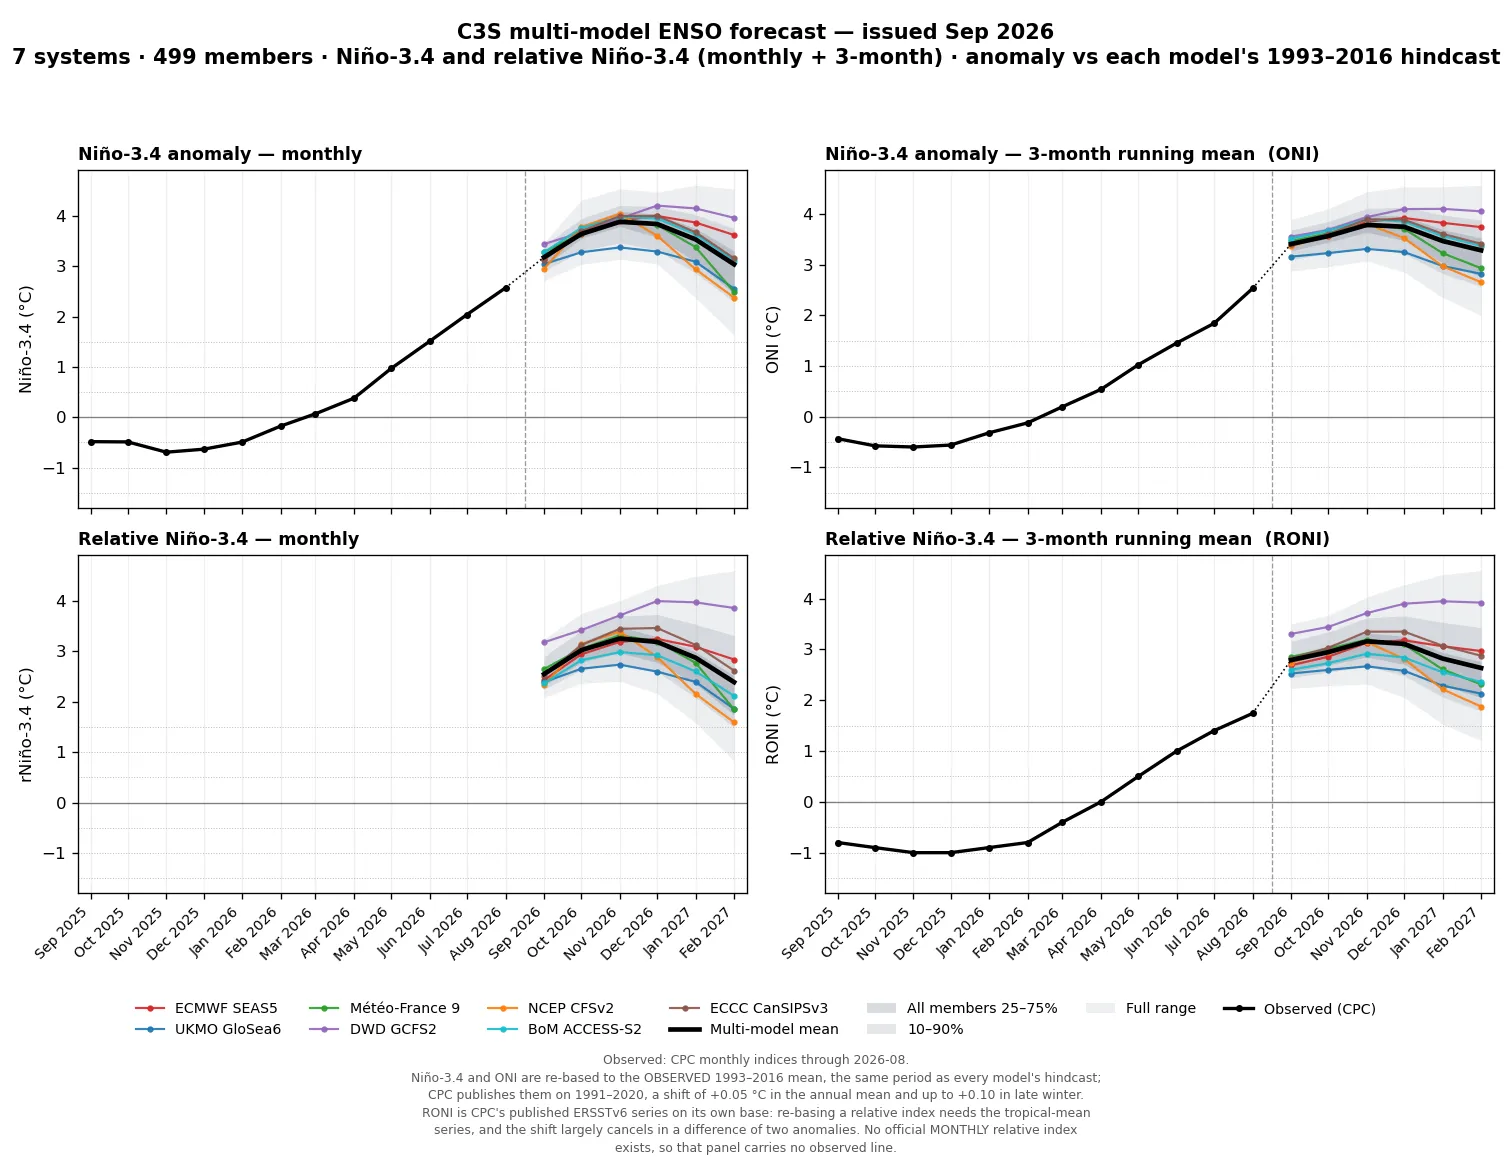
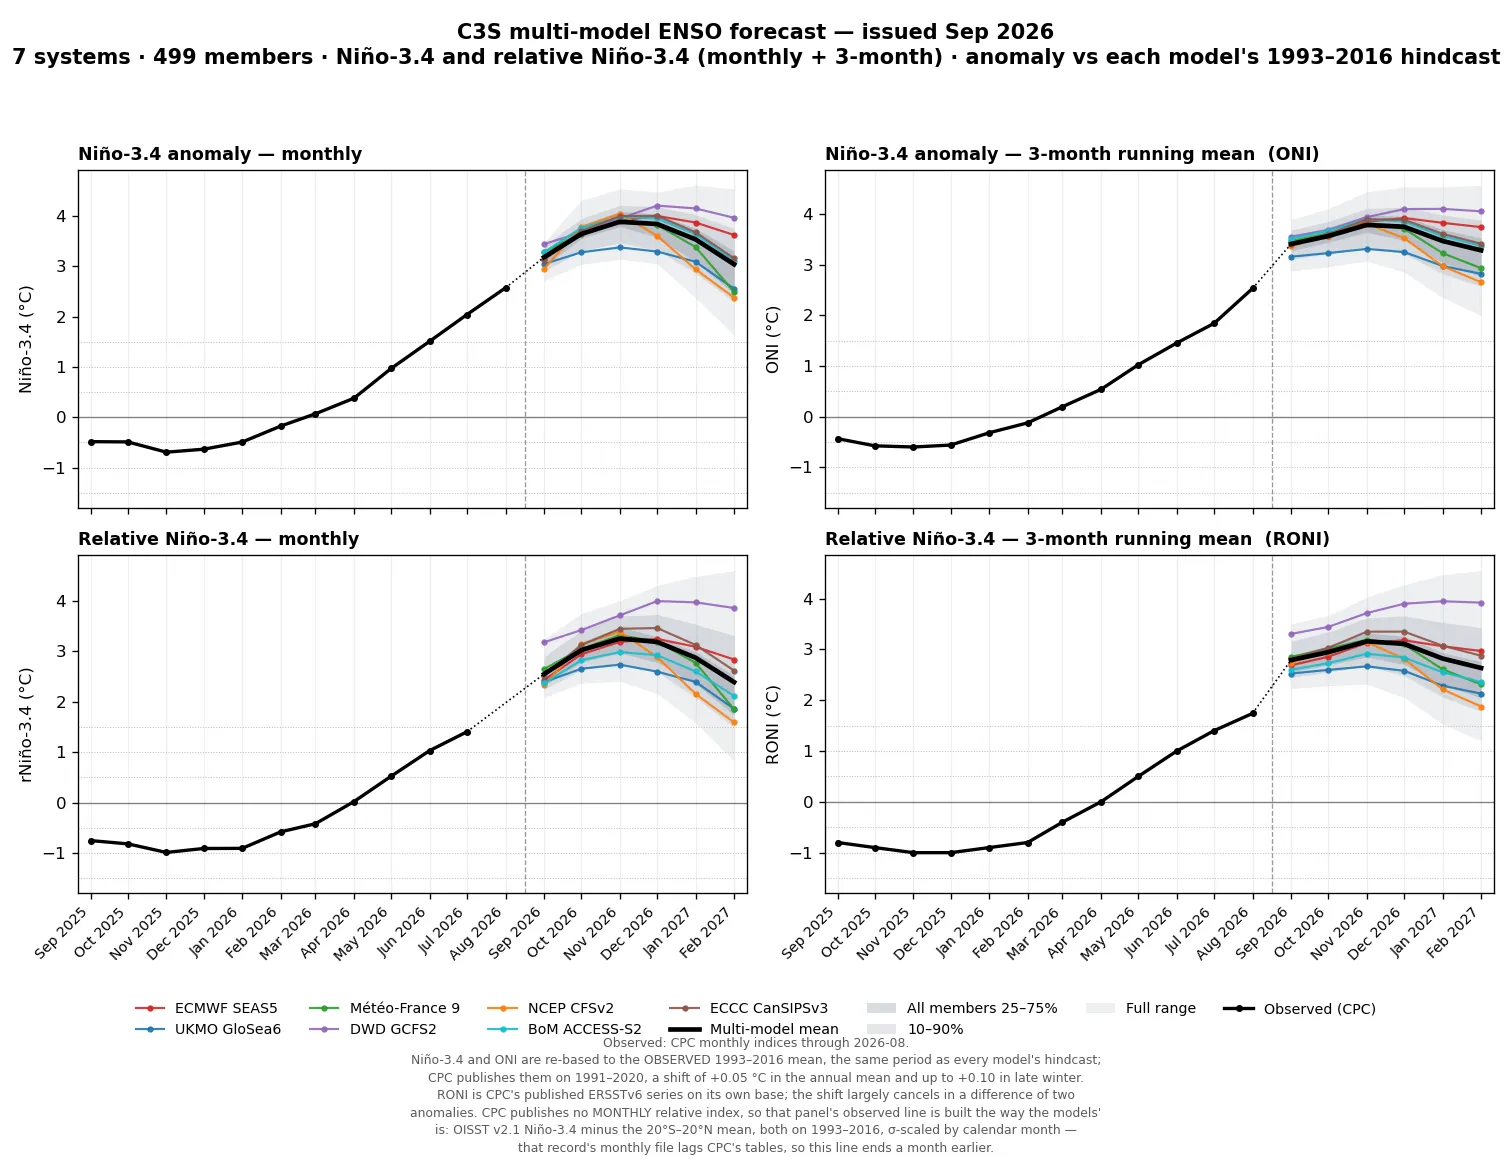
enso: observed monthly relative Niño-3.4; stop the band polygons drawing dots
CPC publishes RONI only as a 3-month mean, so the monthly relative panel had no
observed line. The construction is not a mystery: it is the Niño-3.4 anomaly
minus the 20S-20N tropical-mean anomaly, sigma-scaled by calendar month --
exactly what model_members() does to every member. Built here on OISST v2.1
monthly, the record that produced the sigma table itself, with both anomalies on
the OBSERVED 1993-2016 mean so the line sits on the hindcast base like the rest
of the figure. Cached, because the source file is 2.2 GB.

That file lags CPC's tables by a month, so this line ends in July while the
other three reach August; the dotted connector to the forecast is drawn from
each panel's own last real value rather than assuming they end together.

Separately, on the seasonal page: a Plotly scatter with no explicit mode and few
points defaults to lines+markers, so the shaded bands -- which are polygons --
drew a dot at every vertex, one per month per percentile edge, in the band's own
colour. Nothing was encoded; they were noise (user: "I have no idea what the
dots indicate"). Both population-weighted cards now set mode explicitly.

Claude-Session: https://claude.ai/code/session_01DLR6gqBe7B4VJNchTVrgT3

diff --git a/seasonal.html b/seasonal.html
@@ -1383,7 +1383,8 @@
     var sel = { r: regions[0], m: "mmm", k: "anom" };
     function band(x, lo, hi, col, name) {
       return { x: x.concat(x.slice().reverse()), y: hi.concat(lo.slice().reverse()), fill: "toself",
-               fillcolor: col, line: { width: 0 }, hoverinfo: "skip", showlegend: false, name: name, type: "scatter" };
+               fillcolor: col, line: { width: 0 }, mode: "lines", hoverinfo: "skip", showlegend: false,
+               name: name, type: "scatter" };
     }
     function draw() {
       var R = J.regions[sel.r], V = R.values[sel.m] || R.values.mmm, unit = R.unit;
@@ -1467,7 +1468,8 @@
     var sel = { r: regions[0], m: "mmm", k: "anom" };
     function band(x, lo, hi, col) {
       return { x: x.concat(x.slice().reverse()), y: hi.concat(lo.slice().reverse()), fill: "toself",
-               fillcolor: col, line: { width: 0 }, hoverinfo: "skip", showlegend: false, type: "scatter" };
+               fillcolor: col, line: { width: 0 }, mode: "lines", hoverinfo: "skip", showlegend: false,
+               type: "scatter" };
     }
     function pills(id, items, cur, set) {
       var h = document.getElementById(id); h.innerHTML = "";

diff --git a/scripts/sst/c3s_nino34.py b/scripts/sst/c3s_nino34.py
@@ -349,6 +349,76 @@ OBS_HISTORY = ASSETS / "data" / "nino_history.json"      # written by the ENSO m
 OBS_MONTHS = 12
 
 
+OISST_MEAN = HERE / "data" / "sst.mon.mean.nc"      # the monthly OISST record (gitignored cache)
+REL_CACHE = HERE / "data" / "obs_relative_nino34.json"
+
+
+def observed_relative(months) -> "np.ndarray | None":
+    """Observed MONTHLY relative Niño-3.4, built the way the models' is.
+
+    CPC publishes RONI only as a 3-month mean, so the monthly panel had no observed line.
+    The construction is not a mystery, though: relative Niño-3.4 is the Niño-3.4 anomaly
+    minus the 20°S–20°N tropical-mean anomaly, scaled by the calendar month's σ — exactly
+    what model_members() does to every member. Done here on OISST v2.1 monthly, the record
+    that produced the σ table itself (build_roni_sigma.py), with both anomalies on the
+    OBSERVED 1993–2016 mean so the line sits on the same base as the hindcast anomalies
+    beside it.
+
+    Cached: the source file is 2.2 GB and this is a monthly product.
+    """
+    import numpy as _np
+    want = list(months)
+    if REL_CACHE.exists():
+        try:
+            c = json.loads(REL_CACHE.read_text())
+            if c.get("months") and c["months"][-1] >= want[-1]:
+                by = dict(zip(c["months"], c["values"]))
+                return _np.array([by.get(m, _np.nan) for m in want], dtype=float)
+        except Exception:                                             # noqa: BLE001
+            pass
+    if not OISST_MEAN.exists():
+        return None
+    try:
+        import xarray as xr
+        ds = xr.open_dataset(OISST_MEAN, chunks={"time": 120})
+        sst = ds["sst"]
+
+        def box(la0, la1, lo0, lo1):
+            sub = sst.sel(lat=slice(la0, la1), lon=slice(lo0, lo1))
+            w = _np.cos(_np.deg2rad(sub.lat))
+            return sub.weighted(w.fillna(0)).mean(("lat", "lon")).compute()
+
+        n34 = box(-5, 5, 190, 240)
+        trop = box(-20, 20, 0, 360)
+    except Exception as e:                                            # noqa: BLE001
+        print(f"  observed relative index unavailable ({str(e)[:70]})", flush=True)
+        return None
+    yr = n34.time.dt.year.values
+    mo_ = n34.time.dt.month.values
+
+    def anom(x):
+        v = _np.asarray(x.values, float)
+        out = _np.full_like(v, _np.nan)
+        for m in range(1, 13):
+            sel = mo_ == m
+            base = sel & (yr >= 1993) & (yr <= 2016)
+            if base.any():
+                out[sel] = v[sel] - _np.nanmean(v[base])
+        return out
+
+    tab = _roni_scale_table()
+    rel = (anom(n34) - anom(trop)) * _np.array([tab.get(int(m), 1.0) for m in mo_])
+    keys = [f"{y}-{m:02d}" for y, m in zip(yr, mo_)]
+    try:
+        REL_CACHE.write_text(json.dumps({"months": keys, "values": [None if not _np.isfinite(v) else round(float(v), 3) for v in rel],
+                                         "source": "NOAA OISST v2.1 monthly (PSL), anomalies on the observed 1993–2016 mean, "
+                                                   "σ-scaled by calendar month (roni_sigma.json)"}, separators=(",", ":")))
+    except Exception:                                                 # noqa: BLE001
+        pass
+    by = dict(zip(keys, rel))
+    return _np.array([by.get(m, _np.nan) for m in want], dtype=float)
+
+
 def observed_history(ym: str, months: int = OBS_MONTHS) -> dict | None:
     """The official observed indices for the months BEFORE the issue, on the models' base.
 
@@ -401,6 +471,7 @@ def observed_history(ym: str, months: int = OBS_MONTHS) -> dict | None:
         return _np.array(v if v else [_np.nan] * len(mo), dtype=float)
 
     roni = _ser("roni")
+    rel = observed_relative(mo)          # the monthly relative index CPC does not publish
     # The ONI panel gets CPC's OWN published ONI rather than a running mean of the regional
     # table -- that table lost 2026-07 entirely when it froze, and the official index is the
     # thing a reader recognises. Shifted onto the 1993-2016 base with the 3-month mean of the
@@ -424,6 +495,7 @@ def observed_history(ym: str, months: int = OBS_MONTHS) -> dict | None:
     keep = cut[-months:]
     return {"dates": [pd.Timestamp(int(mo[i][:4]), int(mo[i][5:]), 1) for i in keep],
             "n34": anom[keep], "oni": oni_obs[keep], "roni": roni[keep],
+            "rel": (rel[keep] if rel is not None else None),
             "source": d.get("source", ""), "last": mo[keep[-1]]}
 
 
@@ -458,13 +530,17 @@ def _panel(ax, results, key, valid, smooth3, title, ylab, want_labels=False, obs
     (h_mmm,) = ax.plot(valid, mmm, color="k", lw=2.8, zorder=5)
 
     h_obs = None
-    if obs is not None and obs_key and np.isfinite(np.asarray(obs[obs_key], float)).any():
+    if (obs is not None and obs_key and obs.get(obs_key) is not None
+            and np.isfinite(np.asarray(obs[obs_key], float)).any()):
         y = np.asarray(obs[obs_key], float)
         (h_obs,) = ax.plot(obs["dates"], y, color="k", lw=2.0, marker="o", ms=3.2, zorder=6)
-        # join the last observation to the first forecast month so the eye does not read a
-        # break where there is only a change of source
-        if np.isfinite(y[-1]):
-            ax.plot([obs["dates"][-1], valid[0]], [y[-1], mmm[0]], color="k", lw=1.0, ls=":", zorder=6)
+        # join the LAST OBSERVED month to the first forecast month so the eye does not read a
+        # break where there is only a change of source. Series end at different months —
+        # OISST's monthly file lags CPC's tables by one — so find the last real value.
+        fin = np.where(np.isfinite(y))[0]
+        if fin.size:
+            j = fin[-1]
+            ax.plot([obs["dates"][j], valid[0]], [y[j], mmm[0]], color="k", lw=1.0, ls=":", zorder=6)
         ax.axvline(valid[0] - pd.DateOffset(days=15), color="0.6", lw=0.8, ls="--", zorder=2)
 
     ax.axhline(0, color="0.5", lw=0.8)
@@ -499,8 +575,7 @@ def plot(ym: str, results, out: Path):
            "Niño-3.4 anomaly — 3-month running mean  (ONI)", "ONI (°C)",
            obs=obs, obs_key="oni")
     _panel(axes[1, 0], results, "rnino", valid, False,
-           "Relative Niño-3.4 — monthly", "rNiño-3.4 (°C)")
-    # only the 3-month relative index is published; there is no official monthly one
+           "Relative Niño-3.4 — monthly", "rNiño-3.4 (°C)", obs=obs, obs_key="rel")
     _panel(axes[1, 1], results, "rnino", valid, True,
            "Relative Niño-3.4 — 3-month running mean  (RONI)", "RONI (°C)",
            obs=obs, obs_key="roni")
@@ -525,9 +600,10 @@ def plot(ym: str, results, out: Path):
                      "Observed: CPC monthly indices through " + obs["last"] + ".",
                      "Niño-3.4 and ONI are re-based to the OBSERVED 1993–2016 mean, the same period as every model's hindcast;",
                      "CPC publishes them on 1991–2020, a shift of +0.05 °C in the annual mean and up to +0.10 in late winter.",
-                     "RONI is CPC's published ERSSTv6 series on its own base: re-basing a relative index needs the tropical-mean",
-                     "series, and the shift largely cancels in a difference of two anomalies. No official MONTHLY relative index",
-                     "exists, so that panel carries no observed line."]),
+                     "RONI is CPC's published ERSSTv6 series on its own base; the shift largely cancels in a difference of two",
+                     "anomalies. CPC publishes no MONTHLY relative index, so that panel's observed line is built the way the models'",
+                     "is: OISST v2.1 Niño-3.4 minus the 20°S–20°N mean, both on 1993–2016, σ-scaled by calendar month —",
+                     "that record's monthly file lags CPC's tables, so this line ends a month earlier."]),
                  ha="center", va="bottom", fontsize=7.4, color="0.35", linespacing=1.45)
     fig.tight_layout(rect=(0, 0.155, 1, 0.945))
     out.parent.mkdir(parents=True, exist_ok=True)
